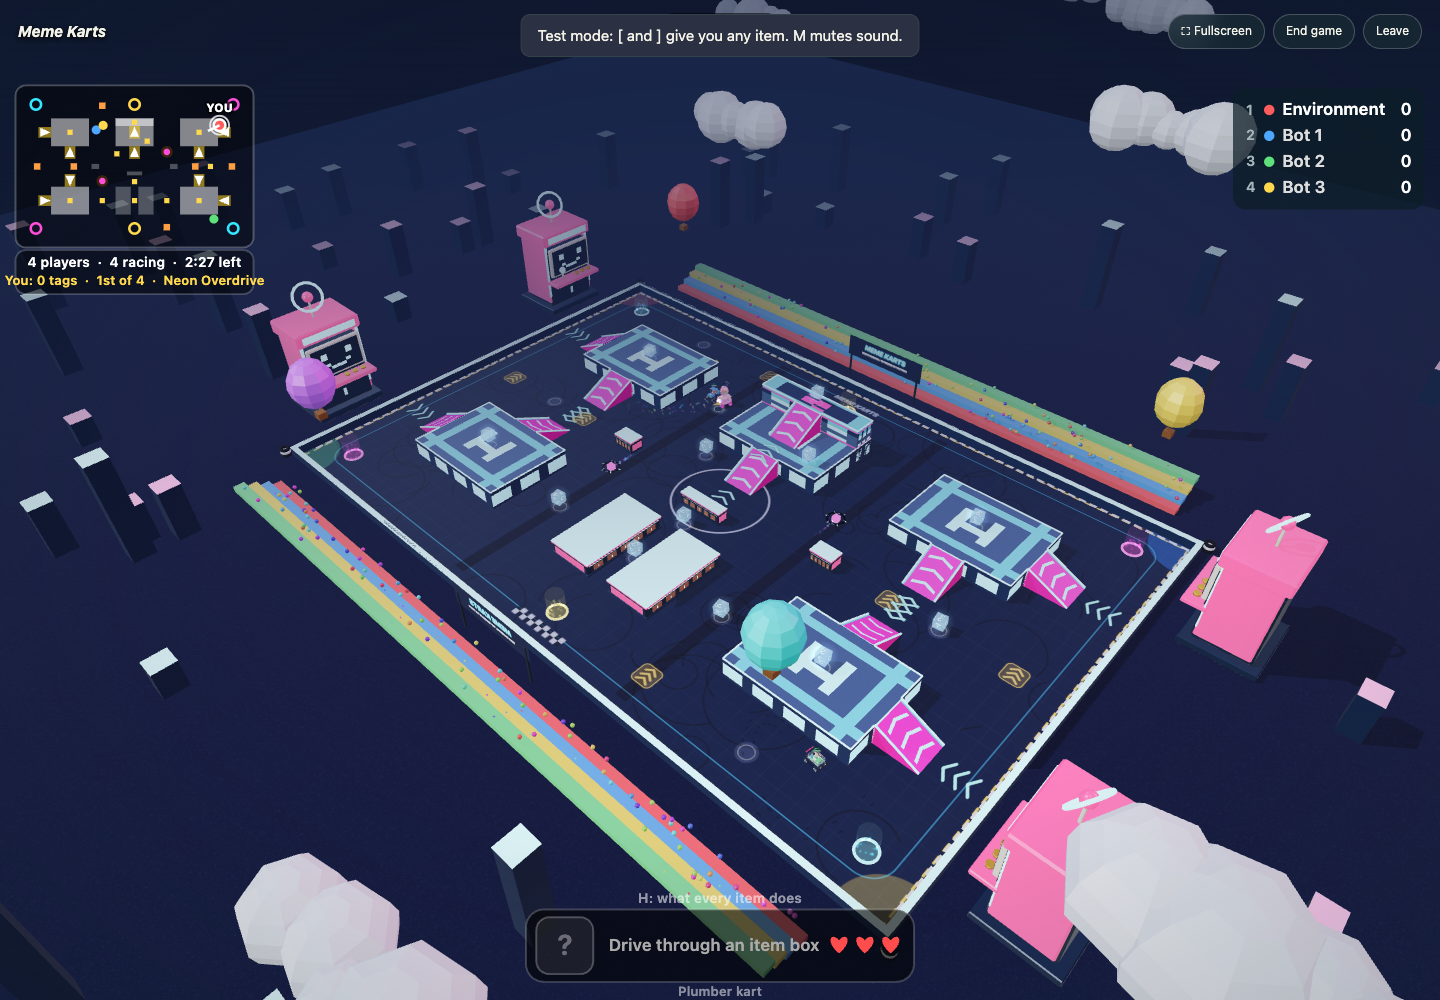
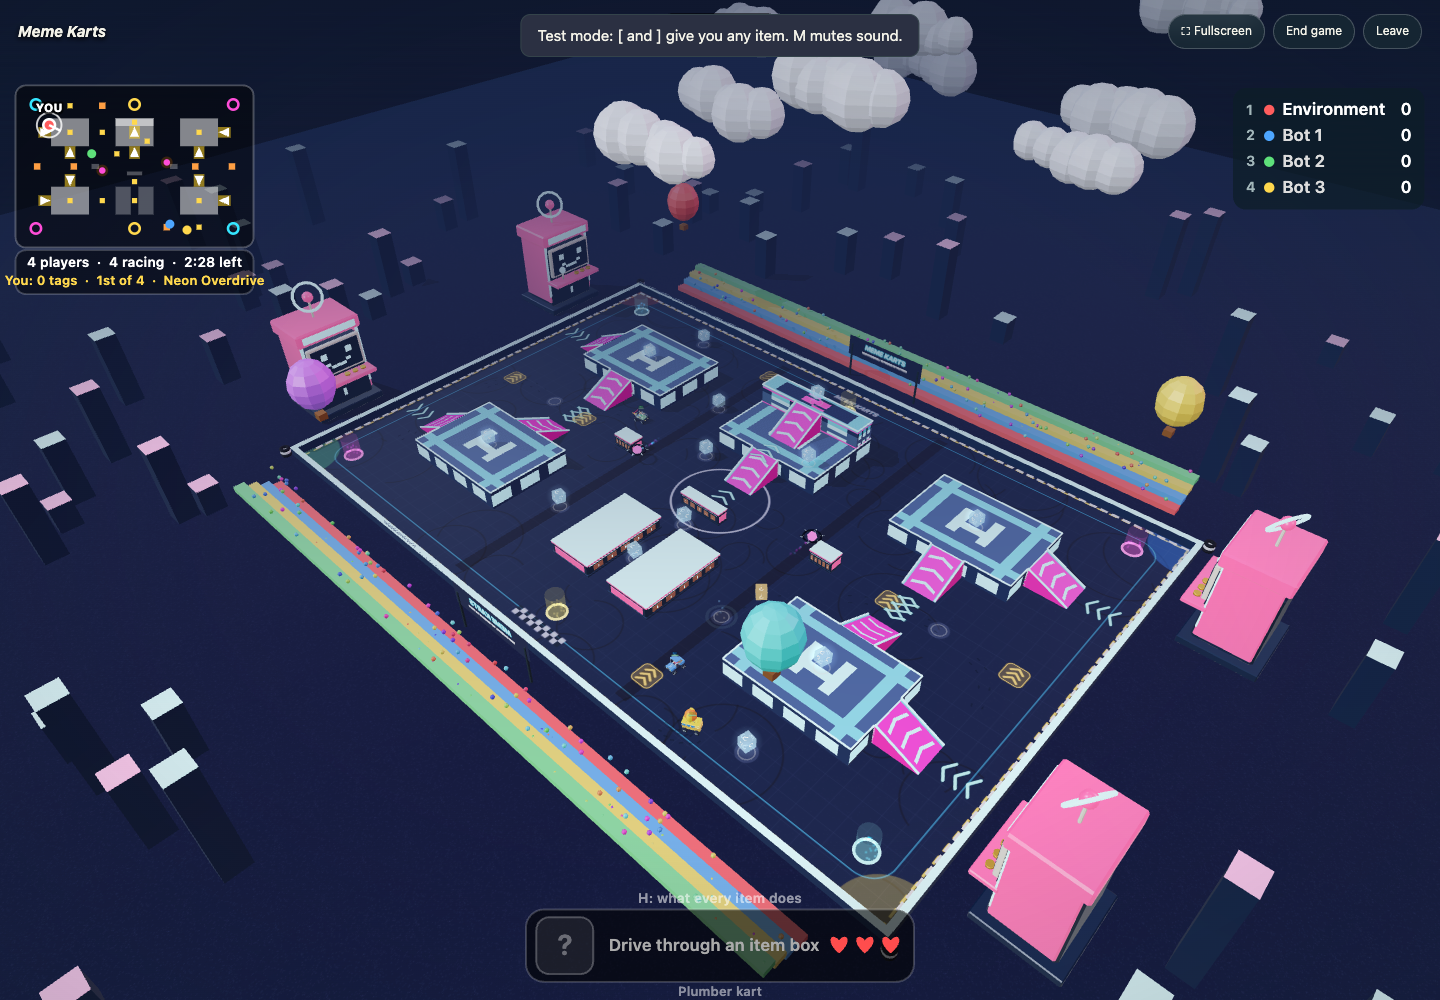
Stop sky tower walls flickering through their base deck
A tower's buried lower walls were coplanar with the deck's side walls,
so the two textures fought. The tower model is drawn 1.2 units narrower
than its collision box; Codex's environment check allows that.

diff --git a/public/games/memekarts.js b/public/games/memekarts.js
@@ -313,8 +313,9 @@ registerGame('memekarts', (G) => {
         const blockM = [side, side, new THREE.MeshStandardMaterial({ map: topTex, roughness: 0.8 }), side, side, side];
         const model = (d.z ? asset(night ? 'tower_neon' : desert ? 'tower_canyon' : 'tower', 100) : null) || asset(night ? 'deck_neon' : desert ? 'deck_canyon' : 'deck', 100) || asset('deck', 100); /* optional Blender deck (or tower summit), stretched to this footprint */
         const DZ = window.MEMEKARTS_MAPS.deckZ(d); /* a second tier is a deck stacked on a deck: its block runs from the floor to its own height */
-        if (model) { const bb = new THREE.Box3().setFromObject(model), sz = bb.getSize(new THREE.Vector3()); model.scale.set(d.w / sz.x, DZ / sz.y, d.h / sz.z); model.position.set(cx, 0, cz); model.name = 'deck'; scene.add(model); }
-        else { const blk = mesh(new THREE.BoxGeometry(d.w, DZ, d.h), blockM, cx, DZ / 2, cz); blk.name = 'deck'; scene.add(blk); }
+        const inset = d.z ? 1.2 : 0; /* a second tier shares side planes with the deck it stands in; a hair narrower, its buried walls stop flickering through the deck's */
+        if (model) { const bb = new THREE.Box3().setFromObject(model), sz = bb.getSize(new THREE.Vector3()); model.scale.set((d.w - inset) / sz.x, DZ / sz.y, (d.h - inset) / sz.z); model.position.set(cx, 0, cz); model.name = 'deck'; scene.add(model); }
+        else { const blk = mesh(new THREE.BoxGeometry(d.w - inset, DZ, d.h - inset), blockM, cx, DZ / 2, cz); blk.name = 'deck'; scene.add(blk); }
         /* glowing rim, with gaps where a ramp meets the deck */
         const edges = [[d.x, d.y, d.x + d.w, d.y], [d.x, d.y + d.h, d.x + d.w, d.y + d.h], [d.x, d.y, d.x, d.y + d.h], [d.x + d.w, d.y, d.x + d.w, d.y + d.h]];
         for (const [x0, y0, x1, y1] of edges) {
